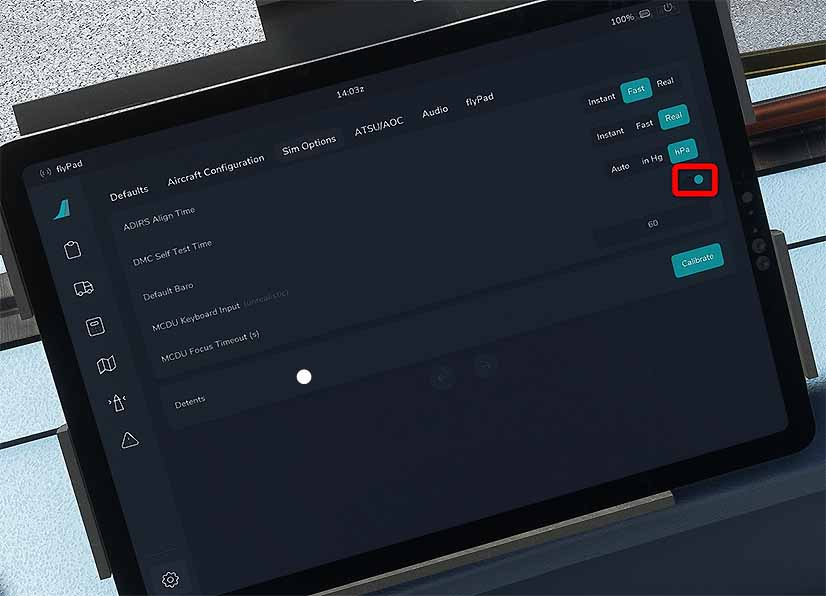
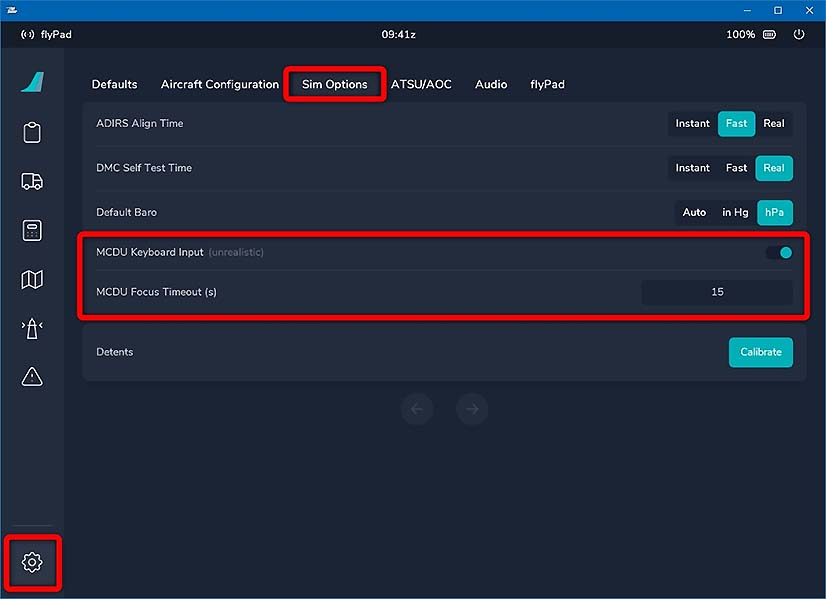
Updated screenshot of EFB MCDU-Keyboard settings.

diff --git a/docs/fbw-a32nx/feature-guides/mcdu-keyboard.md b/docs/fbw-a32nx/feature-guides/mcdu-keyboard.md
@@ -78,7 +78,7 @@ Return to the EFB settings page and adjust the `MCDU Focus Timeout` setting.
 
 Sample Image:
 
-![EFB Settings for MCDU Keyboard](../assets/mcdu-kb/efb-settings-simoptions-mcdukb2.jpg "EFB Settings for MCDU Keyboard"){loading=lazy}
+![EFB Settings for MCDU Keyboard](../assets/mcdu-kb/efb-settings-simoptions-mcdukb.jpg "EFB Settings for MCDU Keyboard"){loading=lazy}
 
 ---
 
